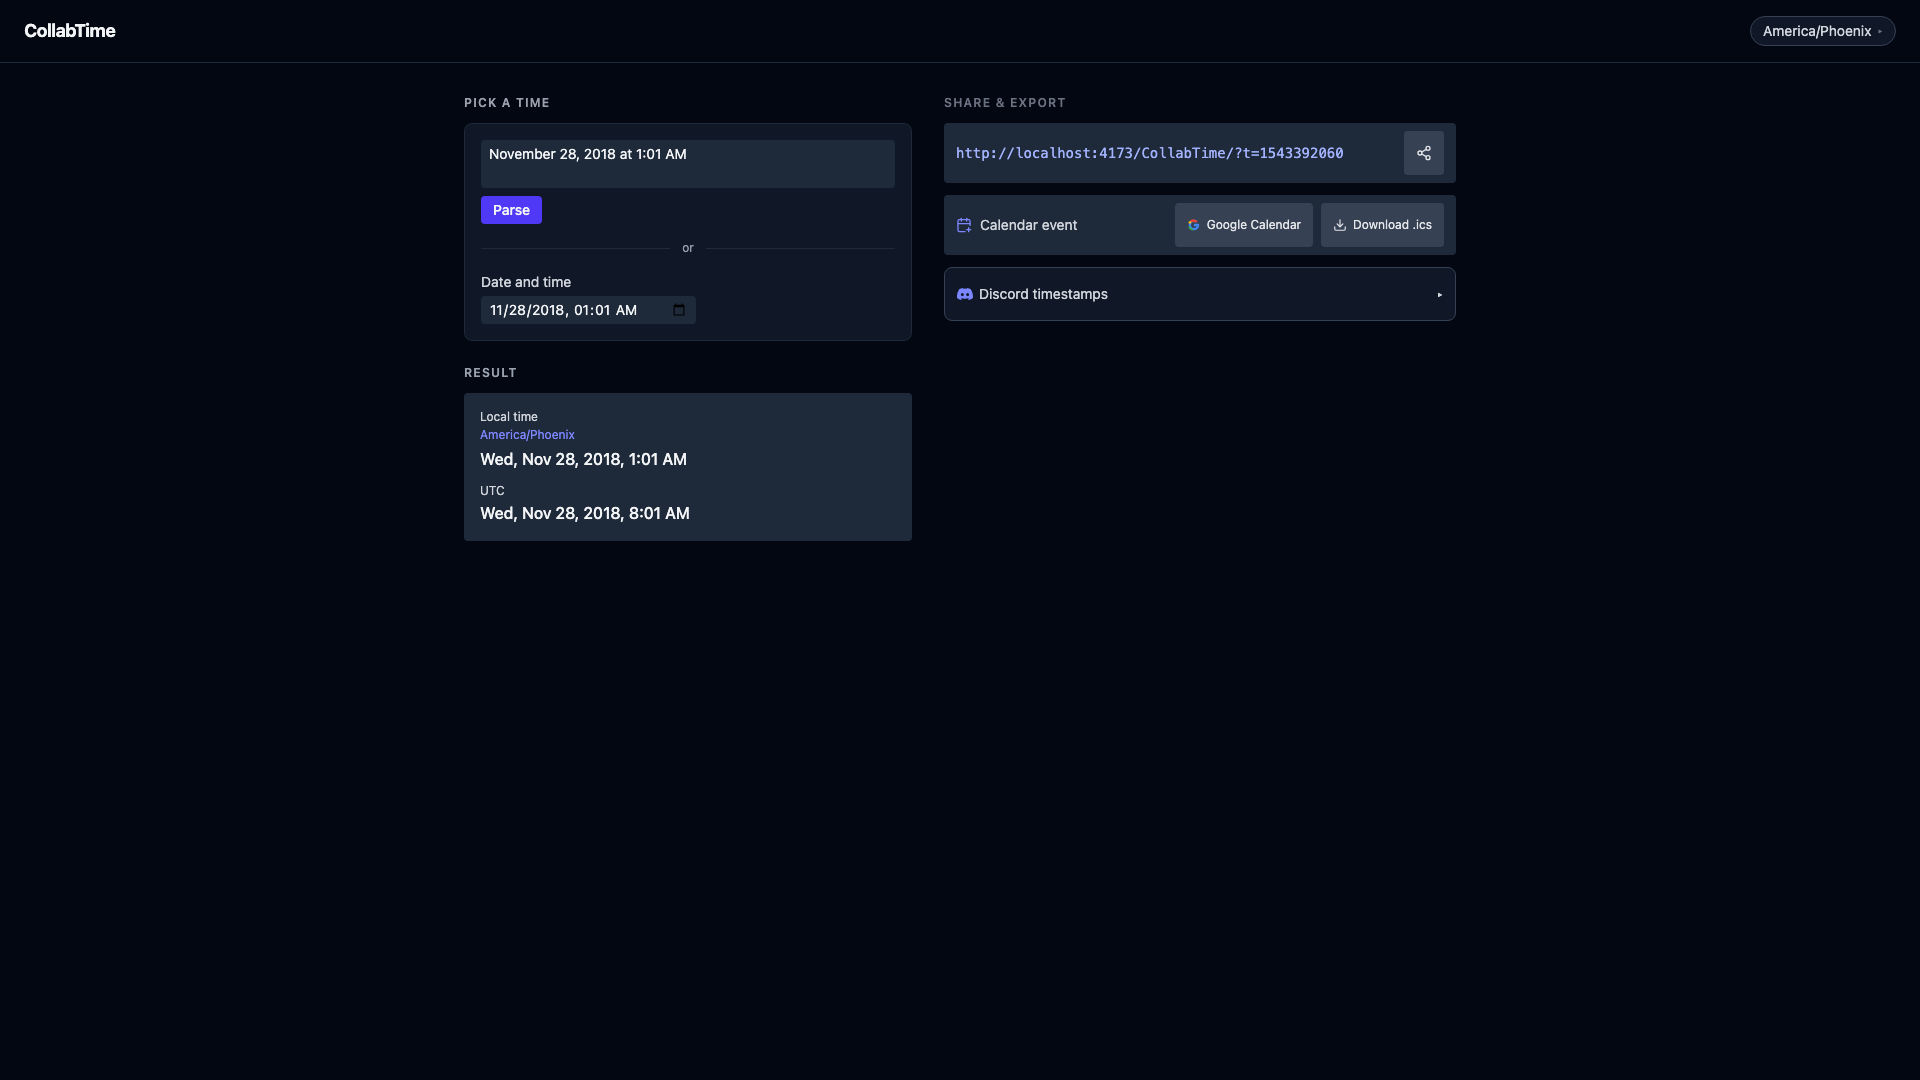
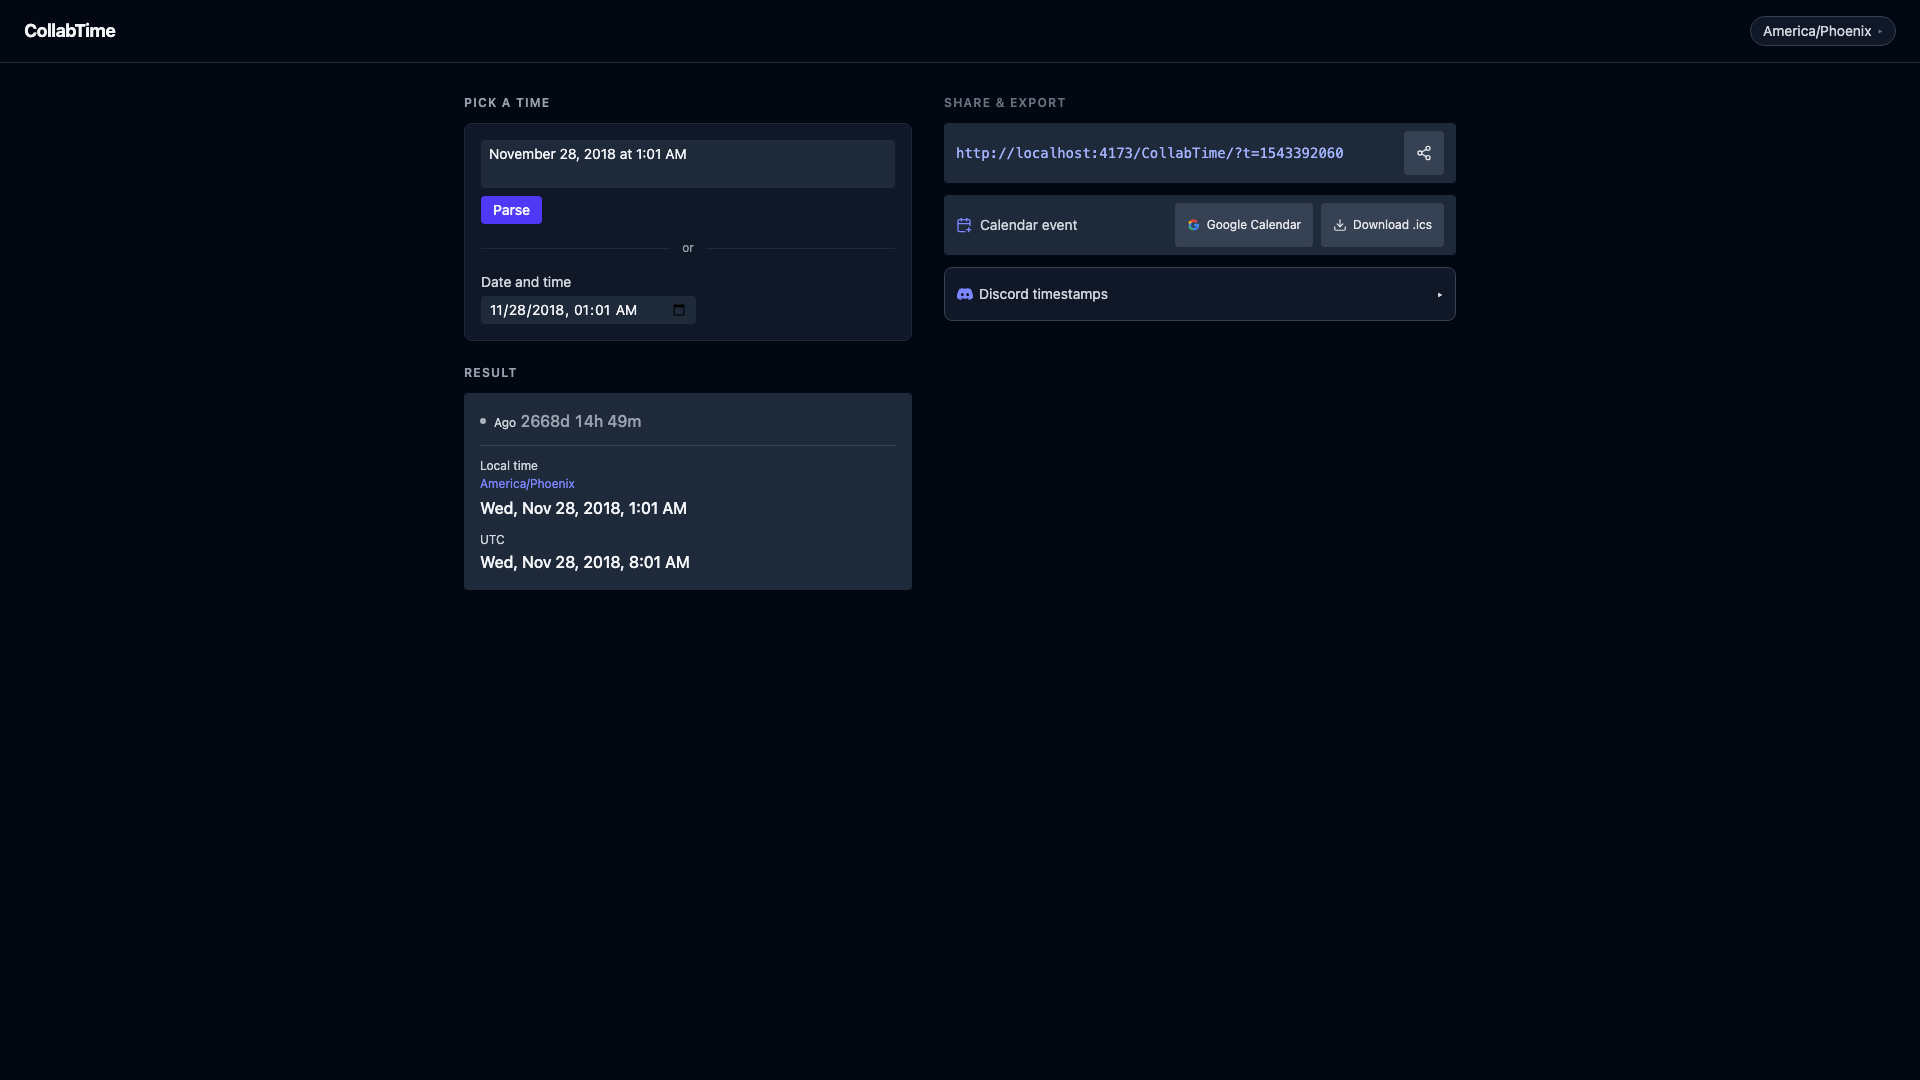
[result] Added a countdown 'til the time

Changed region(s): [[0.2188, 0.3667, 0.5, 0.55]]

diff --git a/src/components/ConversionDisplay.test.tsx b/src/components/ConversionDisplay.test.tsx
@@ -1,5 +1,5 @@
-import { render, screen } from '@testing-library/react'
-import { describe, it, expect } from 'vitest'
+import { render, screen, act } from '@testing-library/react'
+import { describe, it, expect, vi, beforeEach, afterEach } from 'vitest'
 import { ConversionDisplay } from './ConversionDisplay'
 
 const NOV_28_2018_UTC_MS = 1543402860000 // 2018-11-28T11:01:00Z
@@ -34,5 +34,59 @@ describe('ConversionDisplay', () => {
   it('shows the timezone name', () => {
     render(<ConversionDisplay timestamp={NOV_28_2018_UTC_MS} timezone="America/New_York" />)
     expect(screen.getByText(/america\/new_york/i)).toBeDefined()
+  })
+})
+
+describe('countdown display', () => {
+  const FIXED_NOW = 1_700_000_000_000
+
+  beforeEach(() => {
+    vi.useFakeTimers()
+    vi.setSystemTime(FIXED_NOW)
+  })
+
+  afterEach(() => {
+    vi.useRealTimers()
+  })
+
+  it('renders data-testid="countdown" for a future timestamp', () => {
+    render(<ConversionDisplay timestamp={FIXED_NOW + 90_000} timezone="UTC" />)
+    expect(screen.getByTestId('countdown')).toBeDefined()
+  })
+
+  it('shows "In" label for future timestamp', () => {
+    render(<ConversionDisplay timestamp={FIXED_NOW + 90_000} timezone="UTC" />)
+    expect(screen.getByTestId('countdown').textContent).toContain('In')
+  })
+
+  it('shows "Ago" label for past timestamp', () => {
+    render(<ConversionDisplay timestamp={FIXED_NOW - 90_000} timezone="UTC" />)
+    expect(screen.getByTestId('countdown').textContent).toContain('Ago')
+  })
+
+  it('hides the countdown row when timestamp is null', () => {
+    render(<ConversionDisplay timestamp={null} timezone="UTC" />)
+    expect(screen.queryByTestId('countdown')).toBeNull()
+  })
+
+  it('hides the countdown row when delta < 1s', () => {
+    render(<ConversionDisplay timestamp={FIXED_NOW + 500} timezone="UTC" />)
+    expect(screen.queryByTestId('countdown')).toBeNull()
+  })
+
+  it('renders a border-b separator when countdown is shown', () => {
+    const { container } = render(
+      <ConversionDisplay timestamp={FIXED_NOW + 90_000} timezone="UTC" />,
+    )
+    const separator = container.querySelector('.border-b')
+    expect(separator).not.toBeNull()
+  })
+
+  it('updates after 1000ms', async () => {
+    render(<ConversionDisplay timestamp={FIXED_NOW + 65_000} timezone="UTC" />)
+    const initial = screen.getByTestId('countdown').textContent
+    await act(async () => { vi.advanceTimersByTime(1000) })
+    const updated = screen.getByTestId('countdown').textContent
+    expect(updated).not.toBe(initial)
   })
 })

diff --git a/src/utils/formatTime.test.ts b/src/utils/formatTime.test.ts
@@ -1,5 +1,5 @@
 import { describe, it, expect } from 'vitest'
-import { formatInTimezone, formatUtc } from './formatTime'
+import { formatInTimezone, formatUtc, formatCountdown } from './formatTime'
 
 // TZ=UTC is set globally — all Intl output is deterministic
 
@@ -28,5 +28,44 @@ describe('formatInTimezone', () => {
 describe('formatUtc', () => {
   it('is equivalent to formatInTimezone with UTC', () => {
     expect(formatUtc(NOV_28_2018_UTC_MS)).toBe(formatInTimezone(NOV_28_2018_UTC_MS, 'UTC'))
+  })
+})
+
+describe('formatCountdown', () => {
+  const NOW = 1_000_000_000_000
+
+  it('returns null when delta < 1s', () => {
+    expect(formatCountdown(NOW + 500, NOW)).toBeNull()
+    expect(formatCountdown(NOW - 500, NOW)).toBeNull()
+    expect(formatCountdown(NOW, NOW)).toBeNull()
+  })
+
+  it('shows "0m Xs" for delta < 60s', () => {
+    expect(formatCountdown(NOW + 52_000, NOW)).toBe('0m 52s')
+    expect(formatCountdown(NOW - 52_000, NOW)).toBe('0m 52s')
+  })
+
+  it('shows "Xm Xs" zero-padded for delta < 1h (e.g. "45m 09s")', () => {
+    expect(formatCountdown(NOW + 45 * 60_000 + 9_000, NOW)).toBe('45m 09s')
+    expect(formatCountdown(NOW + 59 * 60_000 + 59_000, NOW)).toBe('59m 59s')
+  })
+
+  it('shows "Xh Xm" and suppresses seconds for delta between 1h and 24h', () => {
+    expect(formatCountdown(NOW + 2 * 3_600_000 + 30 * 60_000, NOW)).toBe('2h 30m')
+    expect(formatCountdown(NOW + 3_600_000 + 1_000, NOW)).toBe('1h 0m')
+  })
+
+  it('shows "Xd Xh Xm" for delta >= 24h', () => {
+    expect(formatCountdown(NOW + 2 * 86_400_000 + 3 * 3_600_000 + 45 * 60_000, NOW)).toBe('2d 3h 45m')
+    expect(formatCountdown(NOW + 86_400_000 + 1_000, NOW)).toBe('1d 0h 0m')
+  })
+
+  it('handles exact unit boundaries correctly', () => {
+    // exactly 1 hour
+    expect(formatCountdown(NOW + 3_600_000, NOW)).toBe('1h 0m')
+    // exactly 24 hours
+    expect(formatCountdown(NOW + 86_400_000, NOW)).toBe('1d 0h 0m')
+    // exactly 60 seconds
+    expect(formatCountdown(NOW + 60_000, NOW)).toBe('1m 00s')
   })
 })

diff --git a/src/components/ConversionDisplay.tsx b/src/components/ConversionDisplay.tsx
@@ -1,4 +1,5 @@
-import { formatInTimezone, formatUtc } from '../utils/formatTime'
+import { formatInTimezone, formatUtc, formatCountdown } from '../utils/formatTime'
+import { useCurrentTime } from '../hooks/useCurrentTime'
 
 interface Props {
   timestamp: number | null
@@ -6,6 +7,8 @@ interface Props {
 }
 
 export function ConversionDisplay({ timestamp, timezone }: Props) {
+  const nowMs = useCurrentTime(1_000)
+
   if (timestamp === null) {
     return (
       <div data-testid="result-placeholder" className="rounded bg-gray-800 p-4 flex flex-col gap-3">
@@ -22,8 +25,34 @@ export function ConversionDisplay({ timestamp, timezone }: Props) {
     )
   }
 
+  const countdownStr = formatCountdown(timestamp, nowMs)
+  const isFuture = timestamp > nowMs
+
+  const countdownAriaLabel = countdownStr
+    ? countdownStr
+        .replace(/(\d+)d/, '$1 days')
+        .replace(/(\d+)h/, '$1 hours')
+        .replace(/(\d+)m/, '$1 minutes')
+        .replace(/(\d+)s/, '$1 seconds')
+    : undefined
+
   return (
     <div className="rounded bg-gray-800 p-4 flex flex-col gap-3">
+      {countdownStr !== null && (
+        <div className="pb-3 border-b border-gray-700 flex items-center gap-2">
+          <span className="inline-block w-1.5 h-1.5 rounded-full bg-current animate-pulse text-gray-300 shrink-0" aria-hidden="true" />
+          <p
+            data-testid="countdown"
+            aria-label={`${isFuture ? 'In' : 'Ago'} ${countdownAriaLabel}`}
+            className={`font-medium tabular-nums ${
+              isFuture ? 'text-emerald-400' : 'text-gray-400'
+            }`}
+          >
+            <span className="text-xs text-gray-300 font-normal mr-1">{isFuture ? 'In' : 'Ago'}</span>
+            {countdownStr}
+          </p>
+        </div>
+      )}
       <div>
         <p className="text-xs text-gray-300 mb-0.5">Local time</p>
         <p className="text-xs text-indigo-400 mb-1">{timezone}</p>

diff --git a/src/utils/formatTime.ts b/src/utils/formatTime.ts
@@ -14,3 +14,21 @@ export function formatInTimezone(ms: number, timezone: string): string {
 export function formatUtc(ms: number): string {
   return formatInTimezone(ms, 'UTC')
 }
+
+export function formatCountdown(targetMs: number, nowMs: number): string | null {
+  const totalSeconds = Math.floor(Math.abs(targetMs - nowMs) / 1000)
+  if (totalSeconds < 1) return null
+
+  const days = Math.floor(totalSeconds / 86400)
+  const hours = Math.floor((totalSeconds % 86400) / 3600)
+  const minutes = Math.floor((totalSeconds % 3600) / 60)
+  const seconds = totalSeconds % 60
+
+  if (totalSeconds >= 86400) {
+    return `${days}d ${hours}h ${minutes}m`
+  }
+  if (totalSeconds >= 3600) {
+    return `${hours}h ${minutes}m`
+  }
+  return `${minutes}m ${String(seconds).padStart(2, '0')}s`
+}

diff --git a/src/a11y.test.tsx b/src/a11y.test.tsx
@@ -45,9 +45,18 @@ describe('Accessibility: no axe violations', () => {
     expect(await axe(container)).toHaveNoViolations()
   })
 
-  it('ConversionDisplay', async () => {
+  it('ConversionDisplay — past timestamp', async () => {
     const { container } = render(
       <ConversionDisplay timestamp={FIXED_MS} timezone={TIMEZONE} />,
+    )
+    expect(await axe(container)).toHaveNoViolations()
+  })
+
+  it('ConversionDisplay — future timestamp', async () => {
+    // Use a real future timestamp to avoid fake-timer conflicts with axe internals
+    const futureTimestamp = Date.now() + 60_000
+    const { container } = render(
+      <ConversionDisplay timestamp={futureTimestamp} timezone={TIMEZONE} />,
     )
     expect(await axe(container)).toHaveNoViolations()
   })
